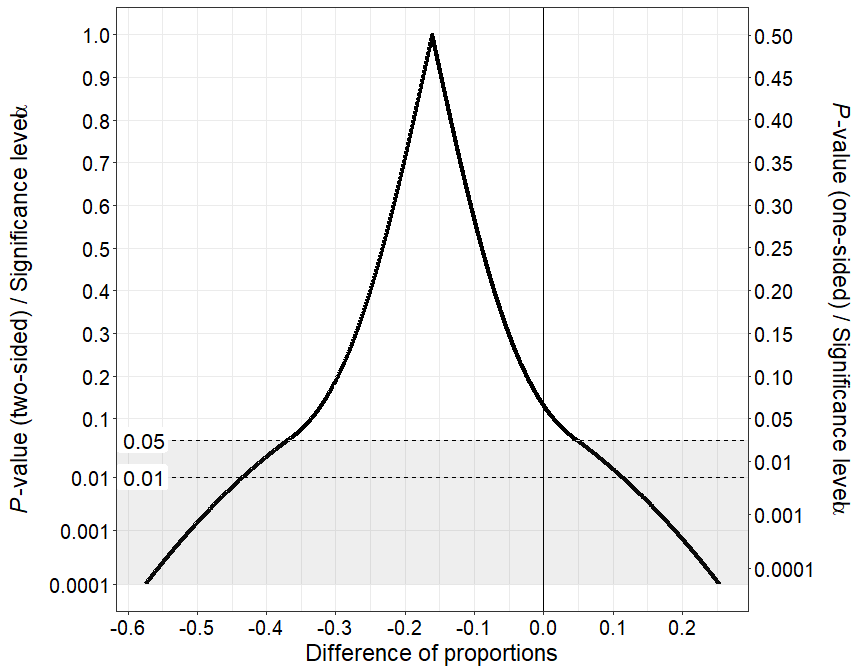
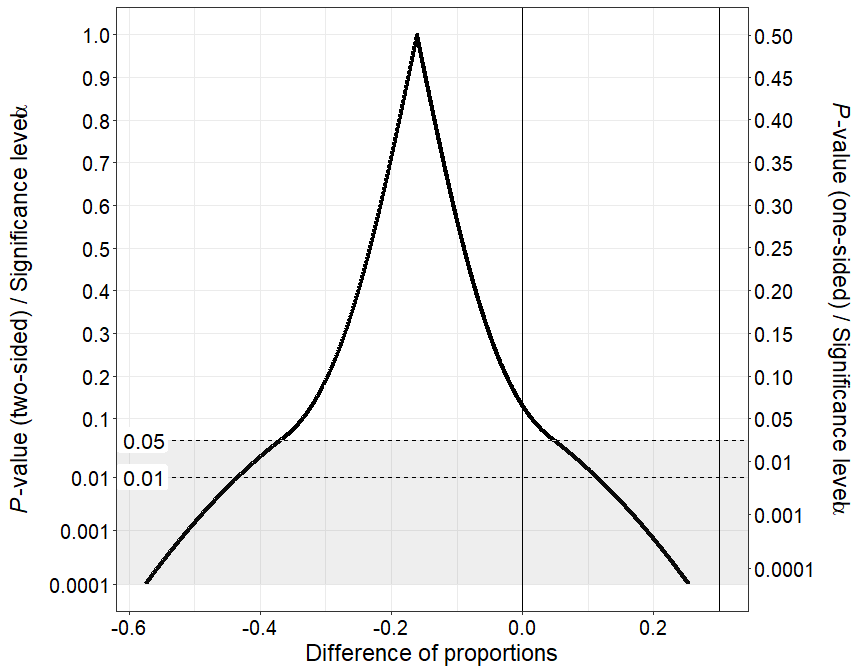
Made some small changes to README, including more information about the ggplot2 bug and what version I'm using for the creation of these graphics. Small changes to plots.

diff --git a/README.md b/README.md
@@ -33,7 +33,7 @@ pvaluefunctions
         distribution](#confidence-density-of-a-variance-estimate-from-a-normal-distribution)
   - [References](#references)
   - [Contact](#contact)
-  - [Session info](#session-info)
+  - [Session info](#sessioninfo)
   - [License](#license)
 
 <!-- README.md is generated from README.Rmd. Please edit that file -->
@@ -93,6 +93,12 @@ of ggplot2 until the bug has been fixed. You can install the
 developmental version using the following command (after installing the
 [`devtools`](https://CRAN.R-project.org/package=devtools) package):
 `devtools::install_github("tidyverse/ggplot2")`
+
+To see what version of ggplot2 has been used to create the plots on this
+page, see the [Session Info](#sessioninfo).
+
+This warning will be deleted upon the release of a new version of
+ggplot2 that fixes the bug.
 
 ## Usage
 
@@ -239,7 +245,7 @@ res <- conf_dist(
   , null_values = c(0)
   , trans = "identity"
   , alternative = "two_sided"
-  , log_yaxis = TRUE
+  , log_yaxis = FALSE
   , cut_logyaxis = 0.05
   , xlab = "Mean difference (group 1 - group 2)"
   , together = FALSE
@@ -303,6 +309,7 @@ res <- conf_dist(
   , log_yaxis = TRUE
   , cut_logyaxis = 0.05
   , xlab = "Coefficient Agriculture"
+  , xlim = c(-0.12, 0.065)
   , together = FALSE
   , plot_p_limit = 1 - 0.999
   , plot_counternull = FALSE
